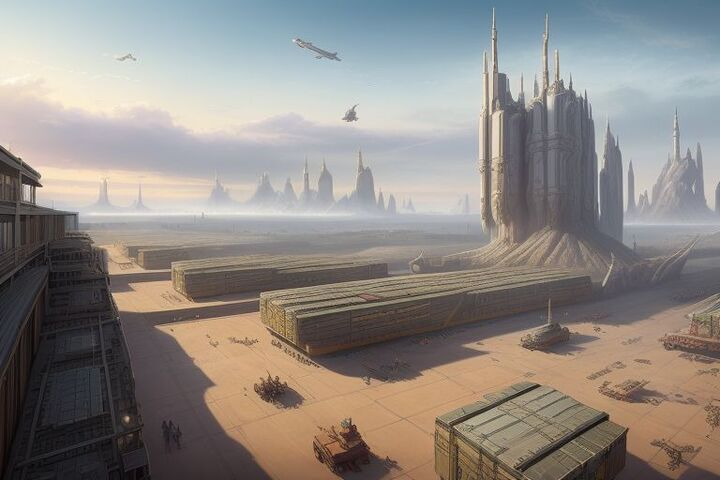
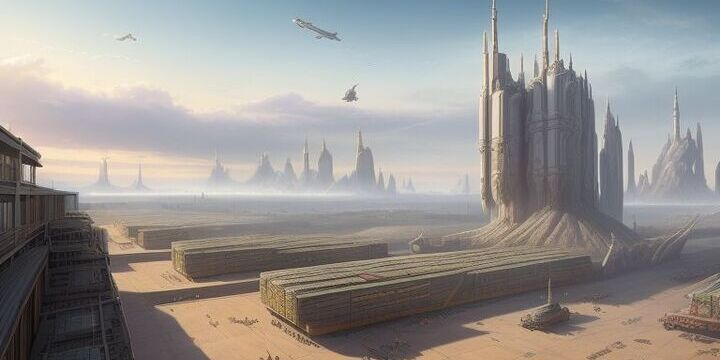
update landing.images

diff --git a/myplugins/landing.images/README.md b/myplugins/landing.images/README.md
@@ -11,6 +11,9 @@ See all images <a href='https://github.com/zuckung/endless-sky-plugins-graphics/
 <br>
 Changelog:<br>
 <br>
+2024-08-02<br>
+fixed wrong size of ahr.jpg<br>
+<br>
 2024-07-31<br>
 initial release<br>
 
